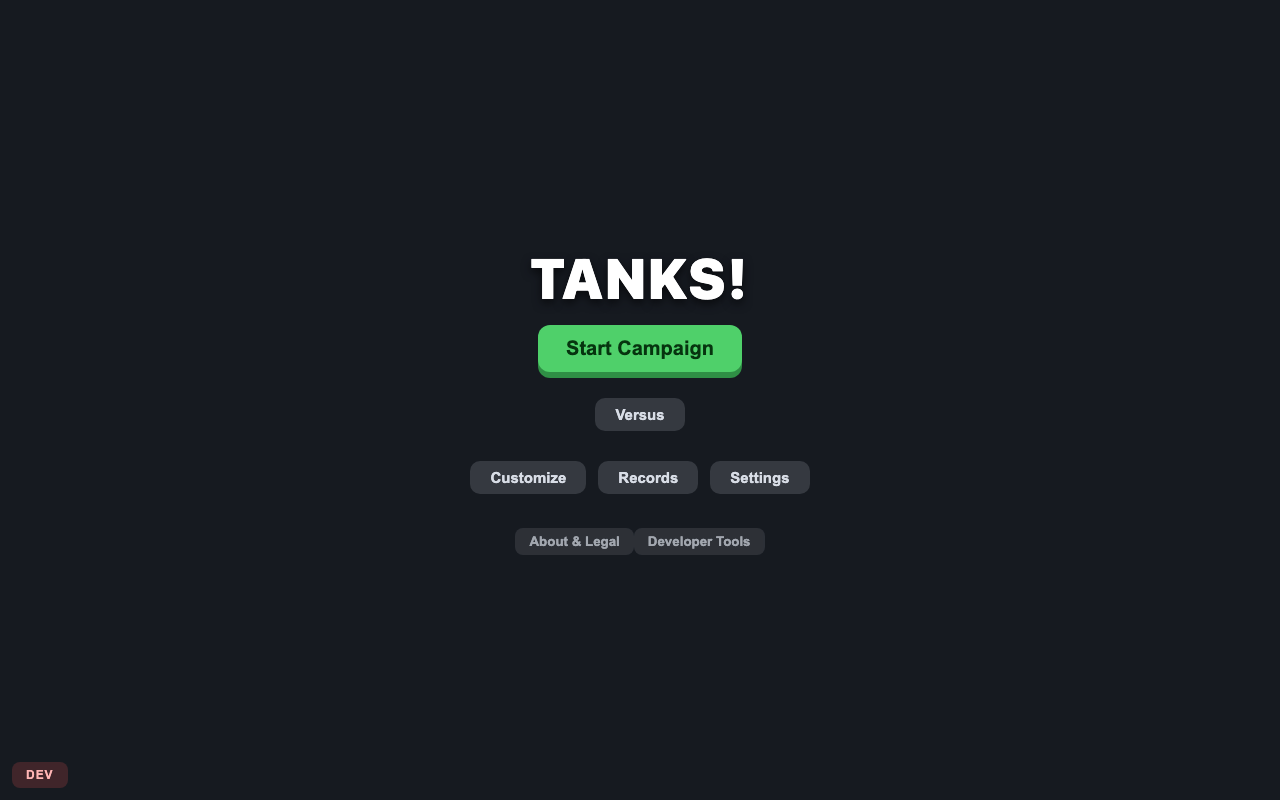
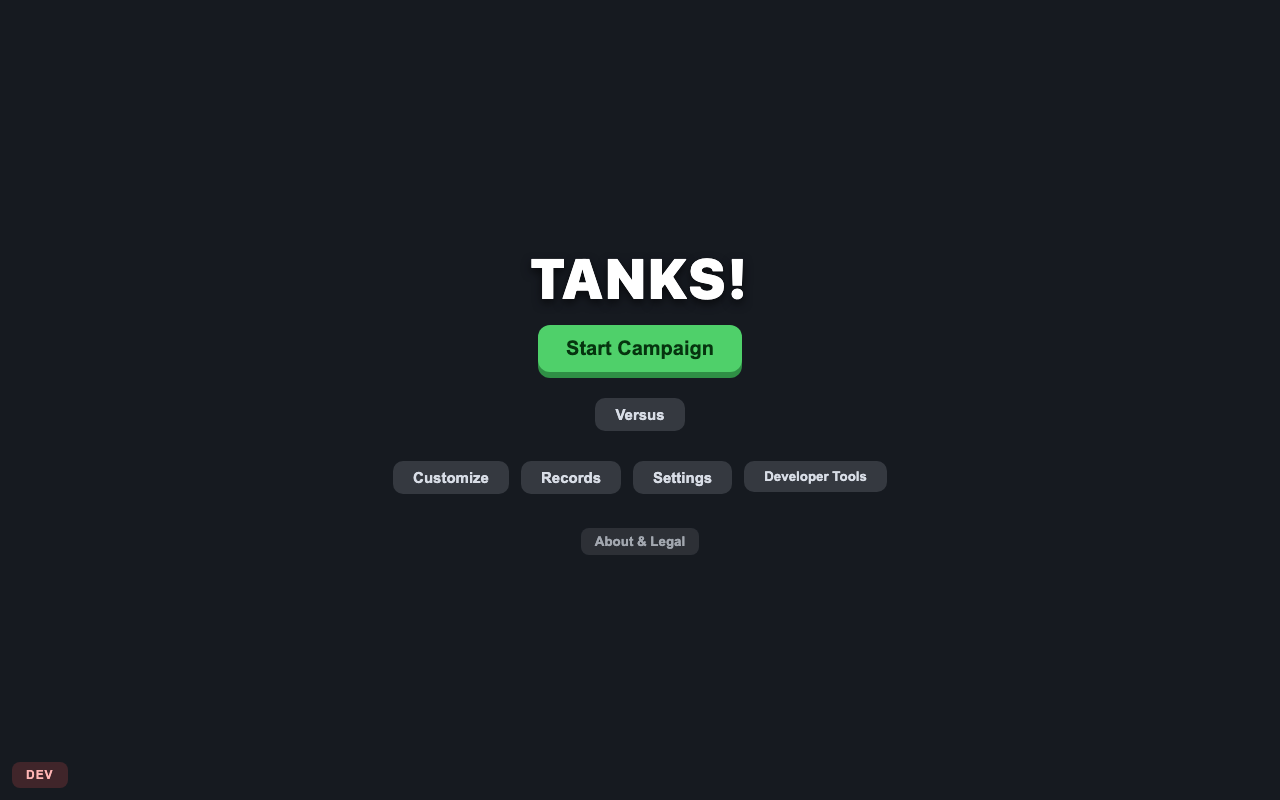
Add the issue-243 pause capture and the controller-reach note

Changed region(s): [[0.2812, 0.5625, 0.6875, 0.625], [0.4062, 0.6562, 0.5938, 0.6875]]

diff --git a/issue-243/README.md b/issue-243/README.md
@@ -10,6 +10,7 @@ description of the images.
 | `243-2-developer-main-menu` | `/?dev=1` | The DEV badge, and exactly one Developer Tools entry. |
 | `243-3-developer-tools-pane` | `/?dev=1` | The shell: status, the non-privilege statement, Exit, Back. |
 | `243-4-badge-during-gameplay` | `/?dev=1` | The badge persists into a match; the menu entry does not. |
+| `243-4b-pause-offers-the-entry` | `/?dev=1` | **Pause offers the entry beside Settings** -- the surface a gamepad can navigate mid-session. |
 | `243-5-reopened-from-the-badge` | `/?dev=1` | The badge reopens the shell mid-match. |
 | `243-6-after-exit` | `/?ref=keep&dev=1&aimRay=1` → `/?ref=keep` | After Exit: developer parameters gone, `ref` kept, no developer UI. |
 
@@ -19,6 +20,7 @@ Measured during the run:
 ordinary: badge visible = false      ordinary: entry visible = false
 dev:      badge visible = true       dev:      entries       = 1
 playing:  badge visible = true       playing:  entry visible = false
+paused:   badge visible = true       paused:   entry visible = true
 after exit, url = /?ref=keep         after exit: badge visible = false
 page errors: none
 ```
@@ -32,3 +34,12 @@ preserved.
 
 The badge is bottom-left rather than in the topbar because the topbar is
 gameplay-status-only since #226 and is hidden at the Main Menu.
+
+**Why the entry sits beside Settings and not in the Main Menu footer.** Arrow and D-pad
+navigation walks the focusable controls WITHIN the active panel, and the badge is a sibling
+of the panes on the HUD root -- inside no panel, so it answers pointer and Tab but never a
+gamepad. The footer is Main-Menu only, so an entry there left a controller player with no
+route into the tools once a match had started: measured at Pause, 4 reachable controls with
+Developer Tools not among them. The utilities row shows at Pause AND the Main Menu, which is
+exactly the pair of surfaces a pad can navigate -- the playing surface has no active panel at
+all, because the pad is driving the tank.
